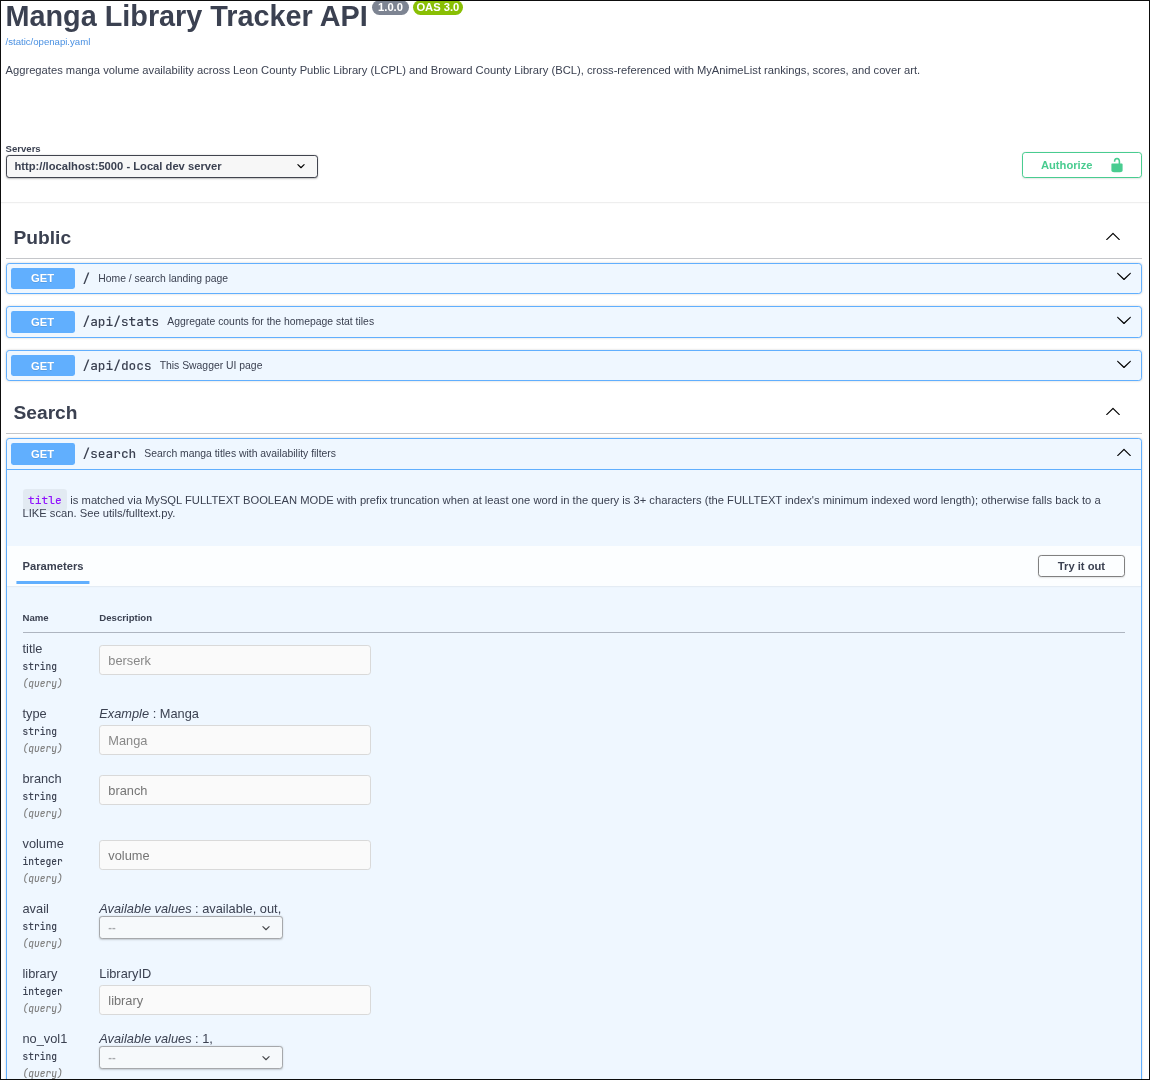
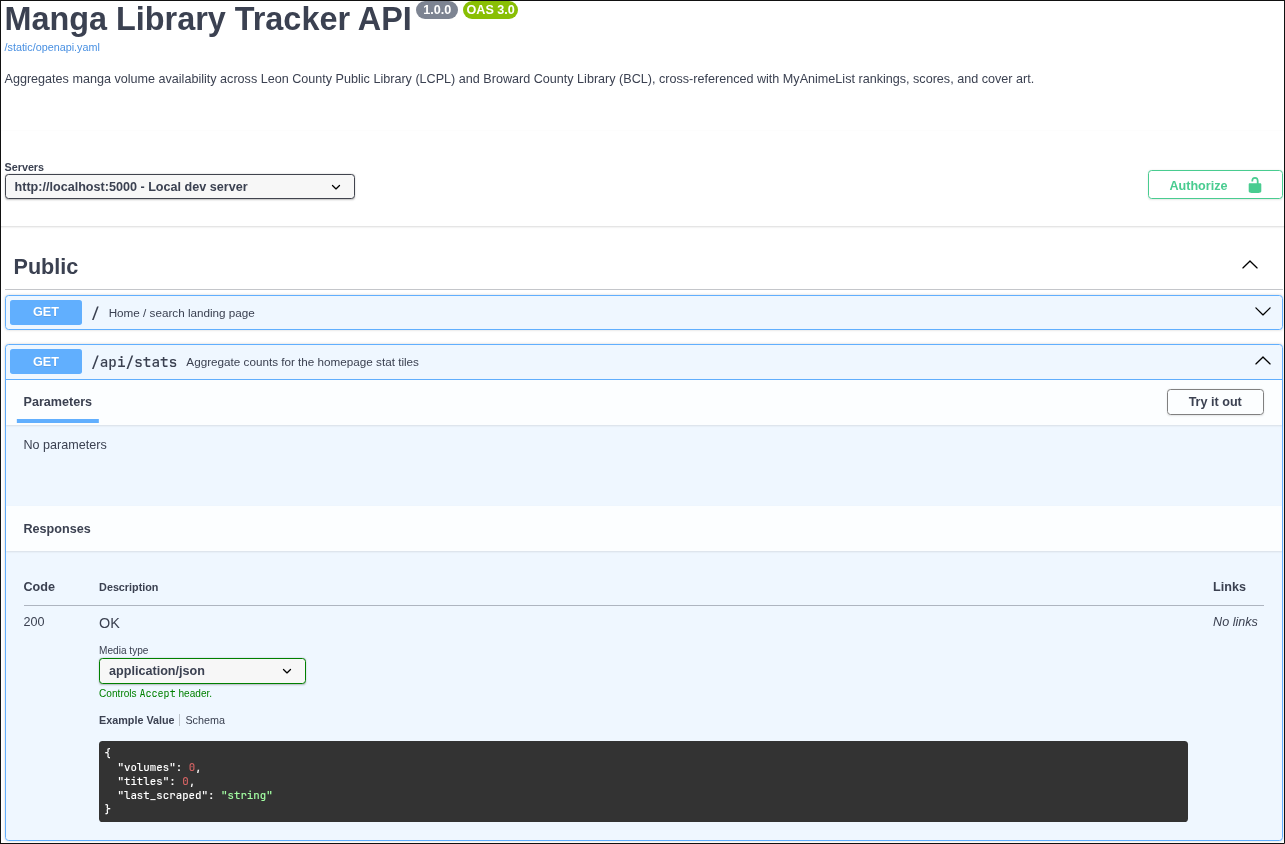
screenshot fixes

Changed region(s): [[0.0, 0.0, 1.0, 1.0], [0.0913, 0.5545, 0.1522, 0.6161]]

diff --git a/web/static/catalog_url.js b/web/static/catalog_url.js
@@ -1,10 +1,9 @@
 /**
  * static/catalog_url.js
  *
- * Builds SirsiDynix catalog search URLs on the client side, on card expand.
- * This replaces the server-side _lcpl_search_url / _broward_search_url
- * construction that previously ran for every row regardless of whether the
- * user ever opened the card (#4).
+ * Builds SirsiDynix catalog search URLs on the client side, on card expand,
+ * rather than building them server-side for every row regardless of whether
+ * the user ever opens the card.
  *
  * Data attributes required on .manga-card:
  *   data-title   — manga title string

diff --git a/web/static/results.js b/web/static/results.js
@@ -5,7 +5,7 @@
  */
 import { buildLcplUrl, buildBrowardUrl, buildVolUrl } from './catalog_url.js';
 
-// ── CSRF token (FIX #11: read from meta tag injected by results.html) ──────────
+// ── CSRF token (read from the meta tag injected by results.html) ───────────────
 
 function csrfToken() {
     return document.querySelector('meta[name="csrf-token"]')?.content || '';
@@ -131,7 +131,6 @@ async function loadMalList() {
 
         const data = await _pollMalJob(startJson.job_id);
 
-        // FIX #11: include CSRF token in session-mutating POST
         const setResp = await fetch('/api/mal/set_filter', {
             method:  'POST',
             headers: {
@@ -196,7 +195,6 @@ async function applyMalFilters() {
         filters[p.dataset.status] = p.dataset.state || '';
     });
     try {
-        // FIX #11: include CSRF token in session-mutating POST
         const resp = await fetch('/api/mal/set_filter', {
             method:  'POST',
             headers: {
@@ -217,7 +215,6 @@ async function applyMalFilters() {
 
 async function clearMalFilter() {
     try {
-        // FIX #11: include CSRF token in session-mutating POST
         await fetch('/api/mal/clear_filter', {
             method:  'POST',
             headers: { 'X-CSRF-Token': csrfToken() },

diff --git a/web/static/admin.js b/web/static/admin.js
@@ -1,7 +1,7 @@
 /**
  * static/admin.js
  *
- * Admin dashboard JS — extracted from inline <script> in admin.html (#6).
+ * Admin dashboard JS, extracted from an inline <script> in admin.html.
  * Handles job polling, stats, branch chart, and all admin actions.
  */
 

diff --git a/utils/job_runner.py b/utils/job_runner.py
@@ -3,32 +3,19 @@ utils/job_runner.py
 
 Redis-backed job queue, built on RQ (Redis Queue).
 
-WHY THIS EXISTS — MIGRATION FROM THE IN-PROCESS VERSION
-─────────────────────────────────────────────────────────
-The previous implementation kept a plain `_jobs: dict` in process memory,
-guarded by a `threading.Lock`. That works *only* if there is exactly one
-Gunicorn worker process, because `/api/job/<name>` has to land on the same
-process that started the job to see its progress — see the old comment in
-gunicorn.conf.py ("WHY 1 WORKER"). It's a hard ceiling on scaling: you can't
-add a second worker (or a second container replica) without job status
-silently going stale on whichever worker didn't run the job.
+Job state lives in Redis rather than a process-local dict, because
+`/api/job/<name>` has to be answerable by whichever Gunicorn worker
+receives the polling request — not necessarily the one that started the
+job. Redis is shared by every process that can reach it:
 
-This version moves all job state into Redis:
     job:state:{job_name}  → HASH  {running, progress, message, stop_requested, rq_job_id}
     job:history           → LIST  of JSON-encoded {job, status, message, at}
 
-Redis is shared by every process that can reach it, so:
-  - Any Gunicorn worker can answer `/api/job/<name>` correctly.
-  - The actual subprocess (scraper / MAL fetch) runs inside a separate
-    `rq worker manga-jobs` process — started independently (see
-    manga-worker.service / docker-compose's `worker` service) — so a long
-    scrape no longer ties up a web request thread or worker slot at all.
-  - `stop_job()` works across processes: it just flips a Redis flag that
-    the worker process polls.
-
-Public API is intentionally unchanged from the old module so callers
-(web/backend.py) didn't need to change shape — only the `on_complete`
-callback parameter was dropped (see note on `start_job` below).
+The actual subprocess (scraper / MAL fetch) runs inside a separate
+`rq worker manga-jobs` process (see manga-worker.service / docker-compose's
+`worker` service), never inside a Gunicorn worker — so a long scrape
+doesn't tie up a web request thread, and `stop_job()` works across
+processes by flipping a Redis flag that the worker process polls.
 
 Public API
 ──────────
@@ -39,10 +26,9 @@ Public API
     read_job_history()              → list[dict]   (oldest → newest)
     append_job_history(job, s, m)  → None
     execute_job(name, cmd)          — the function the RQ worker actually
-                                       runs; not normally called directly,
-                                       but it's a plain top-level function
-                                       (not a closure) so RQ/tests can
-                                       import and invoke it directly.
+                                       runs; a plain top-level function (not
+                                       a closure) so RQ/tests can import and
+                                       invoke it directly.
 """
 
 from __future__ import annotations
@@ -111,7 +97,7 @@ def _state_key(job_name: str) -> str:
 
 
 def read_job_history() -> list[dict]:
-    """Return job history, oldest first (mirrors the old in-memory contract)."""
+    """Return job history, oldest first."""
     r = _get_redis()
     raw = r.lrange(HISTORY_KEY, 0, -1)
     out: list[dict] = []
@@ -150,7 +136,7 @@ _LOG_PREFIX_RE = re.compile(r"^\d{4}-\d{2}-\d{2} \d{2}:\d{2}:\d{2}")
 def execute_job(job_name: str, cmd: list[str]) -> None:
     """
     Entry point invoked by `rq worker manga-jobs` (see manga-worker.service /
-    docker-compose's `worker` service). NOT normally called directly from
+    docker-compose's `worker` service). Not normally called directly from
     request handlers — `start_job()` enqueues this; a separate worker process
     dequeues and runs it.
 
@@ -257,23 +243,20 @@ def start_job(job_name: str, cmd: list[str]) -> tuple[bool, int, str]:
     """
     Enqueue `cmd` to run under the name `job_name` and return immediately.
 
-    NOTE on the dropped `on_complete` parameter: the old in-process version
-    accepted an `on_complete(job_name, ok)` callback (backend.py used it to
-    invalidate an in-memory cache). That doesn't translate to a distributed
-    queue — `execute_job` above runs in a *different process* than the
-    Gunicorn worker that called `start_job`, so a Python closure captured
-    here would either fail to serialize or, if it somehow ran, would mutate
-    state in the wrong process. Call sites that need "do X after this job"
-    should poll `get_job()` / rely on a short cache TTL instead (see
-    `_missing_manga_ids` in backend.py).
+    Deliberately no `on_complete` callback parameter: execute_job() runs in
+    a *different process* than the Gunicorn worker that calls start_job(),
+    so a closure captured here would either fail to serialize or, if it
+    somehow ran, would mutate state in the wrong process. Callers that need
+    "do X after this job" should poll get_job() or rely on a short cache
+    TTL instead (see _missing_manga_ids in backend.py).
     """
     r = _get_redis()
     state_key = _state_key(job_name)
 
-    # Optimistic-lock loop: only one concurrent start_job() call for the same
-    # job_name should win the "claim". This is the distributed equivalent of
-    # the old `_jobs_lock` — necessary now that multiple Gunicorn workers can
-    # call start_job() for the same job_name at (almost) the same time.
+    # Optimistic-lock loop: only one concurrent start_job() call for the
+    # same job_name should win the claim. Needed because multiple Gunicorn
+    # workers can call start_job() for the same job_name at nearly the same
+    # time — a plain in-process lock wouldn't be visible across processes.
     with r.pipeline() as pipe:
         while True:
             try:

diff --git a/web/gunicorn.conf.py b/web/gunicorn.conf.py
@@ -1,20 +1,14 @@
 # gunicorn.conf.py  (place next to backend.py in web/)
 #
-# MULTI-WORKER SAFE as of the Redis/RQ job-queue migration:
-#   The old comment here said "1 worker, because the job-tracking dict
-#   lives in process memory." That's no longer true — job state now lives
-#   in Redis (see utils/job_runner.py's module docstring), and the actual
-#   scrape/MAL-fetch subprocess runs inside a completely separate
-#   `rq worker manga-jobs` process (manga-worker.service), not inside a
-#   Gunicorn worker at all. Any worker here can correctly answer
-#   /api/job/<name> regardless of which one (if any) called start_job().
+# Safe to run multiple workers: job state lives in Redis (see
+# utils/job_runner.py), and the scrape/MAL-fetch subprocess itself runs
+# inside a separate `rq worker manga-jobs` process (manga-worker.service),
+# never inside a Gunicorn worker. Any worker here can correctly answer
+# /api/job/<name> regardless of which one (if any) called start_job().
 #
-#   Bump WORKERS via env var if you have the CPU cores to spare; a common
-#   starting point is (2 x cpu_cores) + 1.
-#
-# THREADS:
-#   Threads still help with ordinary request concurrency (search, polling,
-#   etc.) within each worker process.
+# Bump WORKERS via env var if you have the CPU cores to spare; a common
+# starting point is (2 x cpu_cores) + 1. THREADS still help with ordinary
+# request concurrency (search, polling) within each worker process.
 
 import os
 
@@ -34,11 +28,11 @@ accesslog = "-"
 errorlog = "-"
 loglevel = "info"
 
-# Per-request timeout. Kept at the old value even though scrapes no longer
-# run inside a request at all (they're enqueued to manga-worker.service and
-# the request returns immediately) — this is now just a generous safety net
-# for any one HTTP request, not a scrape-duration ceiling. See
-# utils/job_runner.py's JOB_TIMEOUT for the actual scrape-duration limit.
+# Per-request timeout. Scrapes no longer run inside a request at all (they're
+# enqueued to manga-worker.service and the request returns immediately) — this
+# is just a generous safety net for any one HTTP request, not a scrape-duration
+# ceiling. See utils/job_runner.py's JOB_TIMEOUT for the actual scrape-duration
+# limit.
 timeout = 300
 
 # Graceful shutdown timeout

diff --git a/web/gunicorn.docker.conf.py b/web/gunicorn.docker.conf.py
@@ -1,6 +1,6 @@
 # web/gunicorn.docker.conf.py
 #
-# Container counterpart to gunicorn.conf.py (used by the systemd/bare-metal
+# Container counterpart to gunicorn.conf.py (the systemd/bare-metal
 # deployment). Differences:
 #
 #   BIND: TCP (0.0.0.0:8000) instead of a unix socket — nginx talks to this
@@ -10,11 +10,9 @@
 #   right place, and wsgi_app is given as a full package path
 #   ("web.backend:app") so it resolves correctly regardless of cwd.
 #
-#   WORKERS: as of the Redis/RQ job-queue migration (see
-#   utils/job_runner.py's module docstring), job state lives in Redis and
-#   scrapes run in a separate `rq worker` container — not inside a Gunicorn
-#   worker at all — so it's now safe to run more than one worker per
-#   replica. Bump GUNICORN_WORKERS in .env if you have the CPU to spare.
+#   WORKERS: safe to run more than one — job state lives in Redis and
+#   scrapes run in a separate `rq worker` container, not inside a Gunicorn
+#   worker. Bump GUNICORN_WORKERS in .env if you have the CPU to spare.
 
 import os
 

diff --git a/utils/scraper_utils.py b/utils/scraper_utils.py
@@ -30,11 +30,11 @@ STATUS_PRIORITY: dict[str, int] = {
 }
 
 
-# ── Status normalisation (FIX #4: exact-match set, no substring collisions) ───
+# ── Status normalisation — exact-match set, no substring collisions ───────────
 #
 # Substring matching on raw location strings causes false positives:
 # "Non-Youth Fiction" matches "Youth", "Young Adult Non-Fiction" matches
-# "Adult".  Exact matching against the lowercased string prevents this.
+# "Adult". Exact matching against the lowercased string prevents this.
 
 _ON_SHELF_EXACT: frozenset[str] = frozenset(
     {
@@ -169,8 +169,8 @@ def is_novel(manga_type: str) -> bool:
 
 
 # ── TitleRow — shared return type for load_title_author_map() ─────────────────
-# FIX #5: TitleRow is kept so external callers can import it if needed,
-# and the return type annotation is accurate.
+# Exported so external callers can import TitleRow directly if needed, and so
+# load_title_author_map's return type annotation stays accurate.
 
 
 class TitleRow(NamedTuple):

diff --git a/utils/database_utils.py b/utils/database_utils.py
@@ -53,9 +53,8 @@ def reconnect(conn, cursor):
     wait_timeout closing an idle connection mid-scrape). Returns (conn,
     cursor) — callers must use the returned pair, never the originals.
 
-    Shared by leon_scraper.py and broward_scraper.py, which used to each
-    carry an identical standalone copy — same drift risk as the
-    ON_SHELF_STATUSES bug, caught here before it had the chance to diverge.
+    Shared by leon_scraper.py and broward_scraper.py so the retry logic
+    can't drift between the two scrapers.
     """
     try:
         conn.ping(reconnect=True, attempts=3, delay=5)

diff --git a/utils/fulltext.py b/utils/fulltext.py
@@ -4,7 +4,7 @@ utils/fulltext.py
 Helpers for MySQL FULLTEXT BOOLEAN MODE search, used by both the
 /api/suggestions typeahead and /search's title filter — replaces the old
 `Title LIKE '%q%'` scan, which can't use any index and forces MySQL to
-examine every row in `manga` on every keystroke (item #8).
+examine every row in `manga` on every keystroke.
 
 WHY BOOLEAN MODE WITH PREFIX TRUNCATION (`word*`), NOT NATURAL LANGUAGE MODE:
 NATURAL LANGUAGE MODE only matches whole indexed words (after MySQL's
@@ -32,7 +32,8 @@ import re
 
 # Characters with special meaning inside MySQL BOOLEAN MODE search strings.
 # Stripped from user input so a typed "+", "-", "*", etc. can't change
-# query semantics (e.g. force-exclude a word, or break the query outright).
+# query semantics (e.g. force-exclude a word, group terms, etc.) or break
+# the query outright.
 _FT_OPERATOR_RE = re.compile(r'[+\-><()~*"@]')
 
 # Matches InnoDB's default innodb_ft_min_token_size — words shorter than

diff --git a/migrations/versions/0002_add_fulltext_search.py b/migrations/versions/0002_add_fulltext_search.py
@@ -1,4 +1,4 @@
-"""Add FULLTEXT index on manga.Title for full-text search (item #8)
+"""Add FULLTEXT index on manga.Title for full-text search
 
 Revision ID: 0002
 Revises: 0001